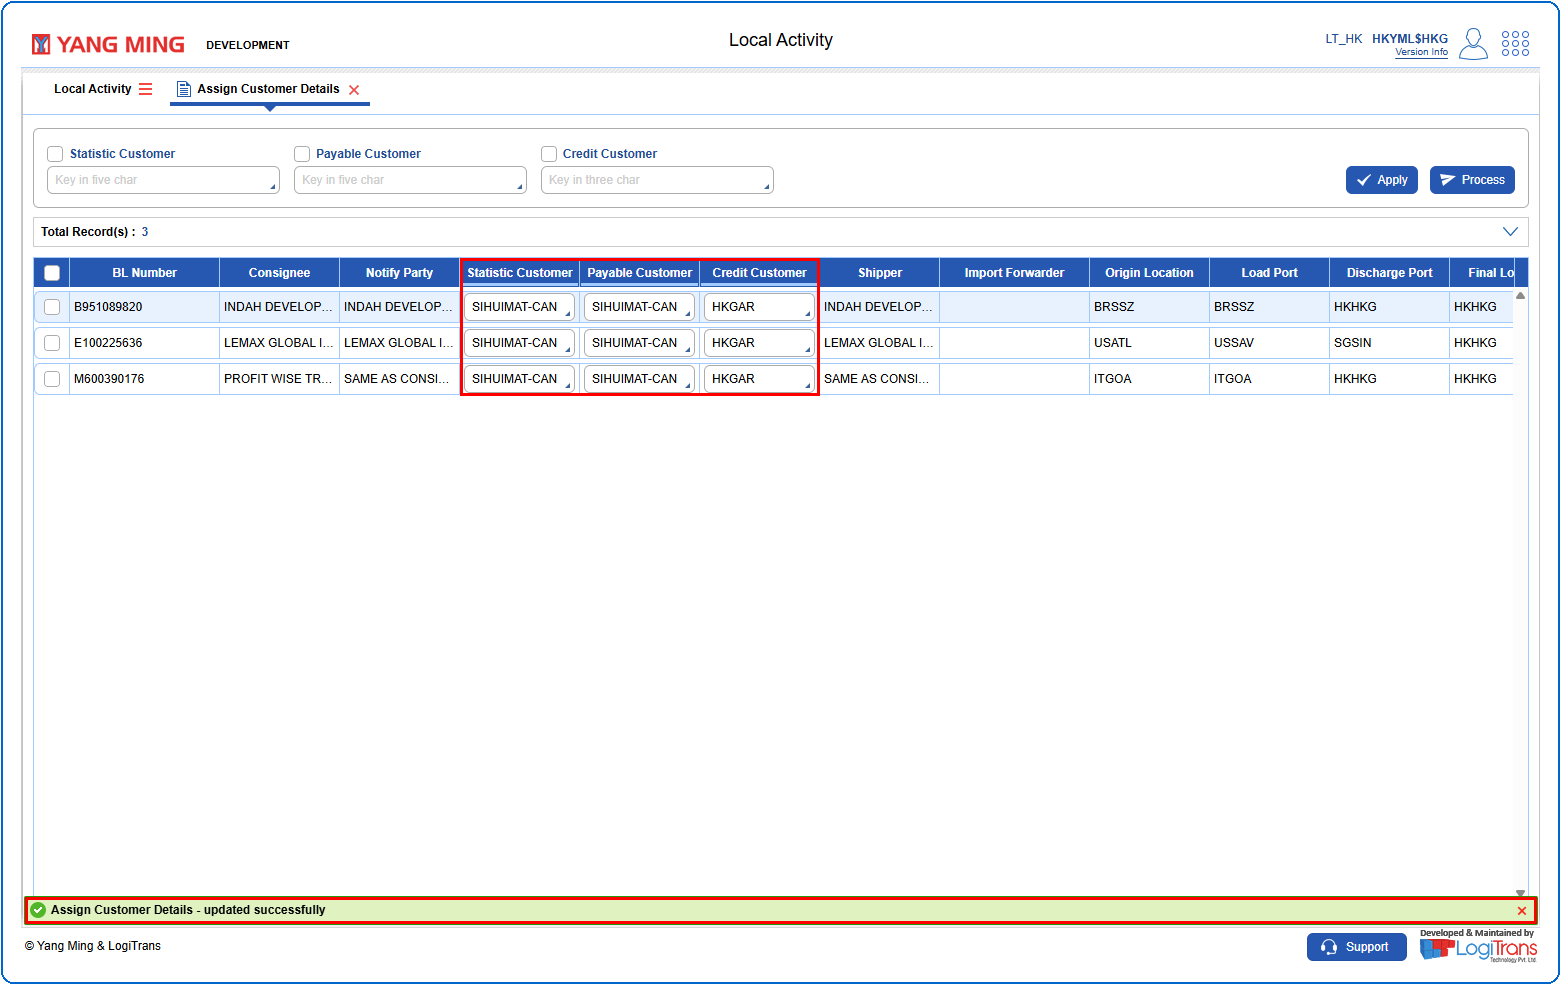
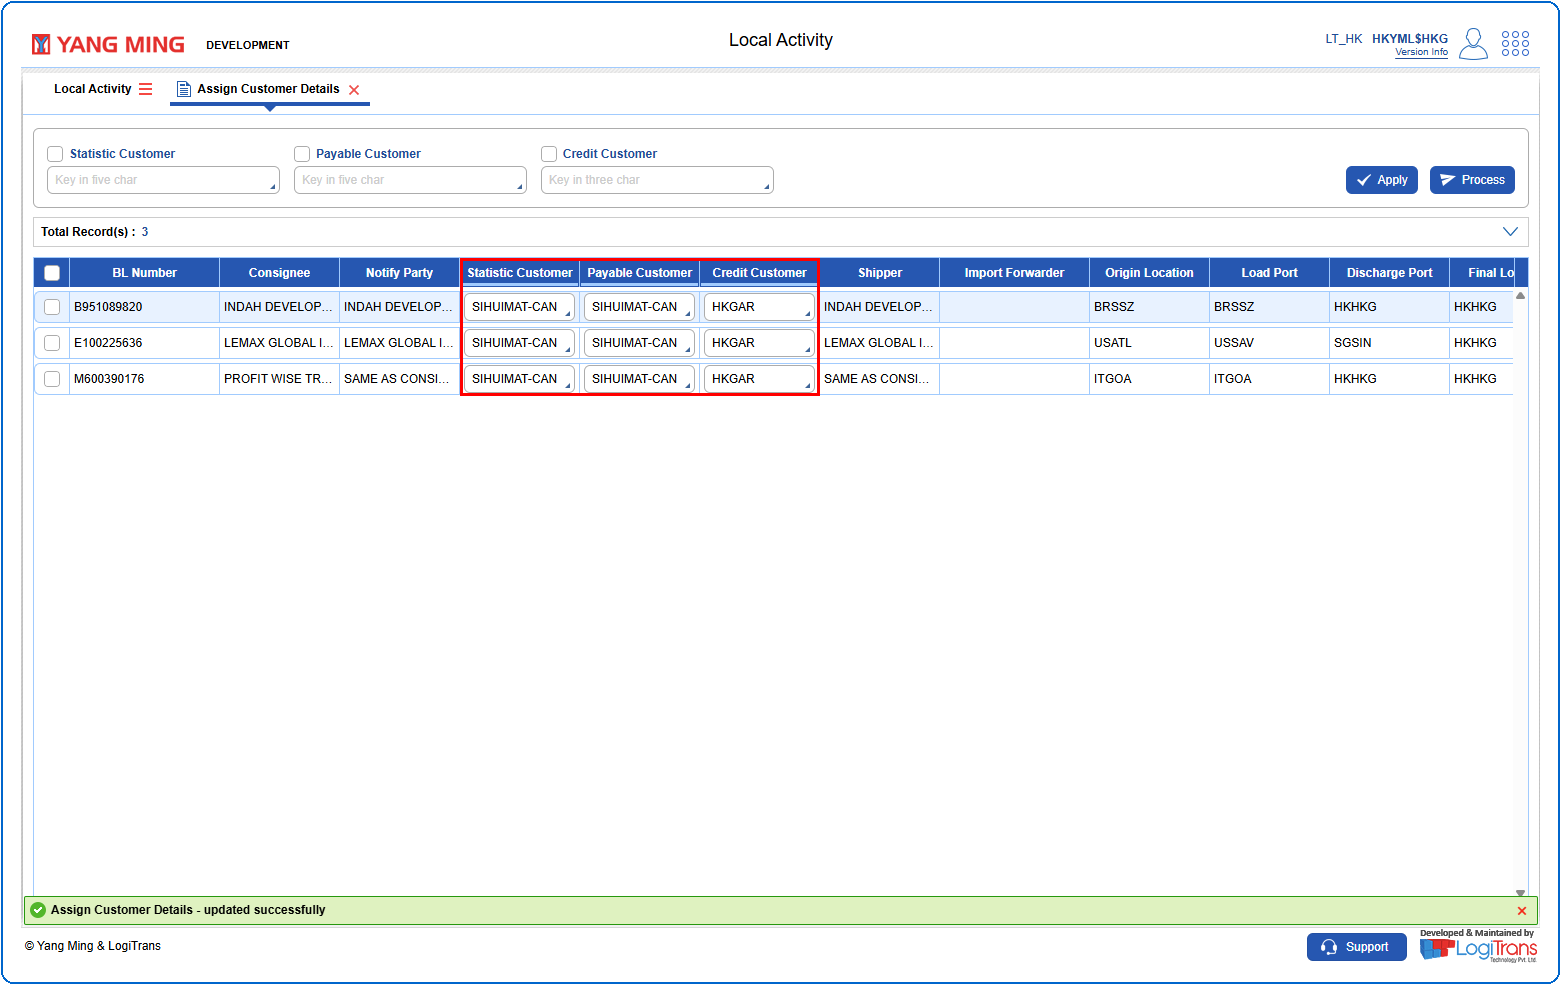
Rule: never mark success messages; unmark success bars

Changed region(s): [[0.9532, 0.9137, 0.984, 0.9442]]

diff --git a/.github/skills/iliscyber-drexplain-manual/references/screenshots.md b/.github/skills/iliscyber-drexplain-manual/references/screenshots.md
@@ -43,3 +43,4 @@
 2. If there is no image to build from and the flow is not complete, ASK the user for the missing image, naming the step it is for.
 3. PREVIEW EVERY EDITED IMAGE: whenever an image is edited or built, show its preview right away so the user can correct it there, before it goes into a page.
 4. CROP BUTTONS BEFORE MARKING: inline button/icon crops are always cut from the unmarked screenshot, before any box or number is drawn.
+5. NEVER MARK SUCCESS MESSAGES: never draw a red box (or number) around a success message (green success bar, success alert). Leave it unmarked; other changed values on the result screen may still be boxed when the user asks.
